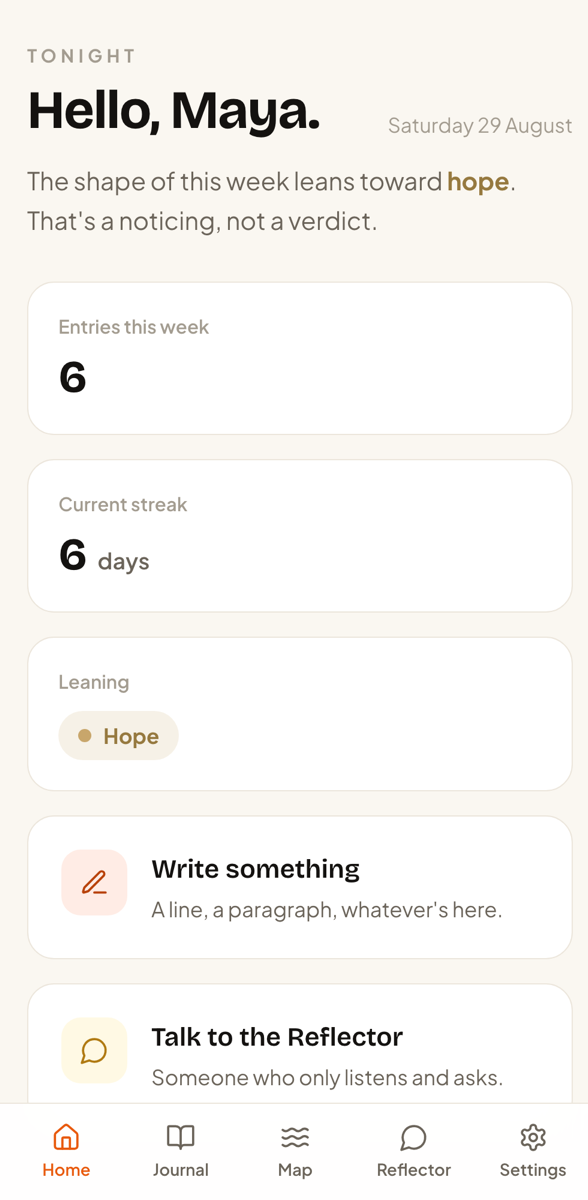
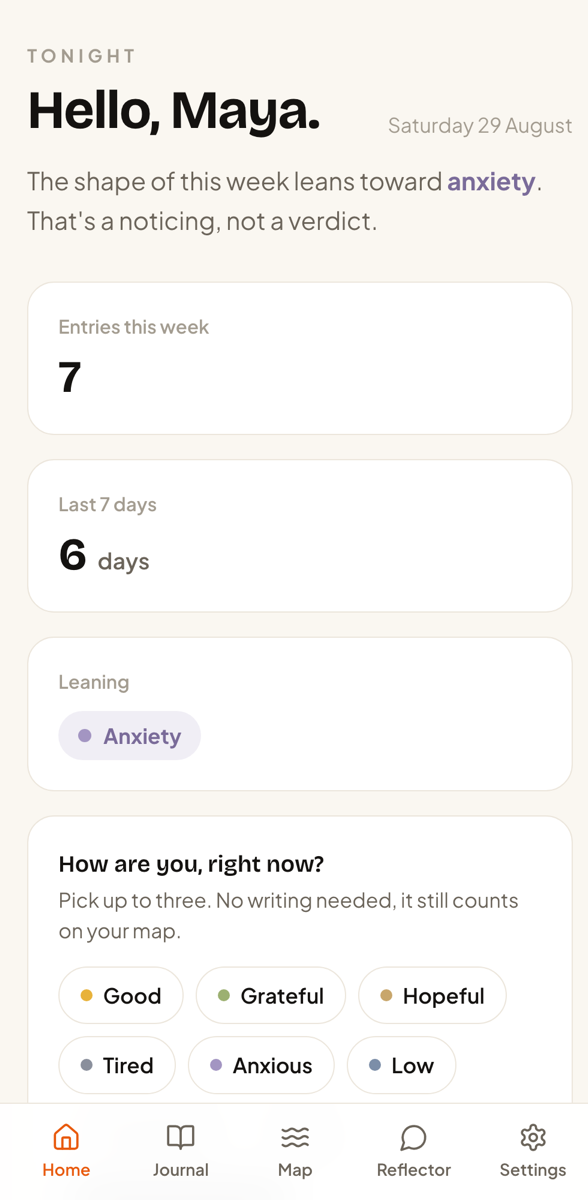
Refresh tour screenshots for the check-in and rolling streak
The captures predated both changes, so the tour was showing an app that no
longer matches. Home now leads with the check-in, and its pillar says so.

diff --git a/src/app/routes/Tour.tsx b/src/app/routes/Tour.tsx
@@ -39,8 +39,8 @@ const SECTIONS: Section[] = [
     body: "You open buddy and it picks up the thread. What you've written this week, how often you've come back, and the feeling running underneath it all.",
     points: [
       "A read on the week that names a leaning, not a verdict",
-      "Your streak, there to encourage and never to scold",
-      "One tap into writing or into a conversation",
+      "A one-tap check-in, so a hard day still reaches your map",
+      "How many of the last seven days you showed up, never a chain to break",
     ],
     shot: "/shots/home.png",
     alt: "The buddy home screen showing a weekly leaning, a six day streak and recent entries",
